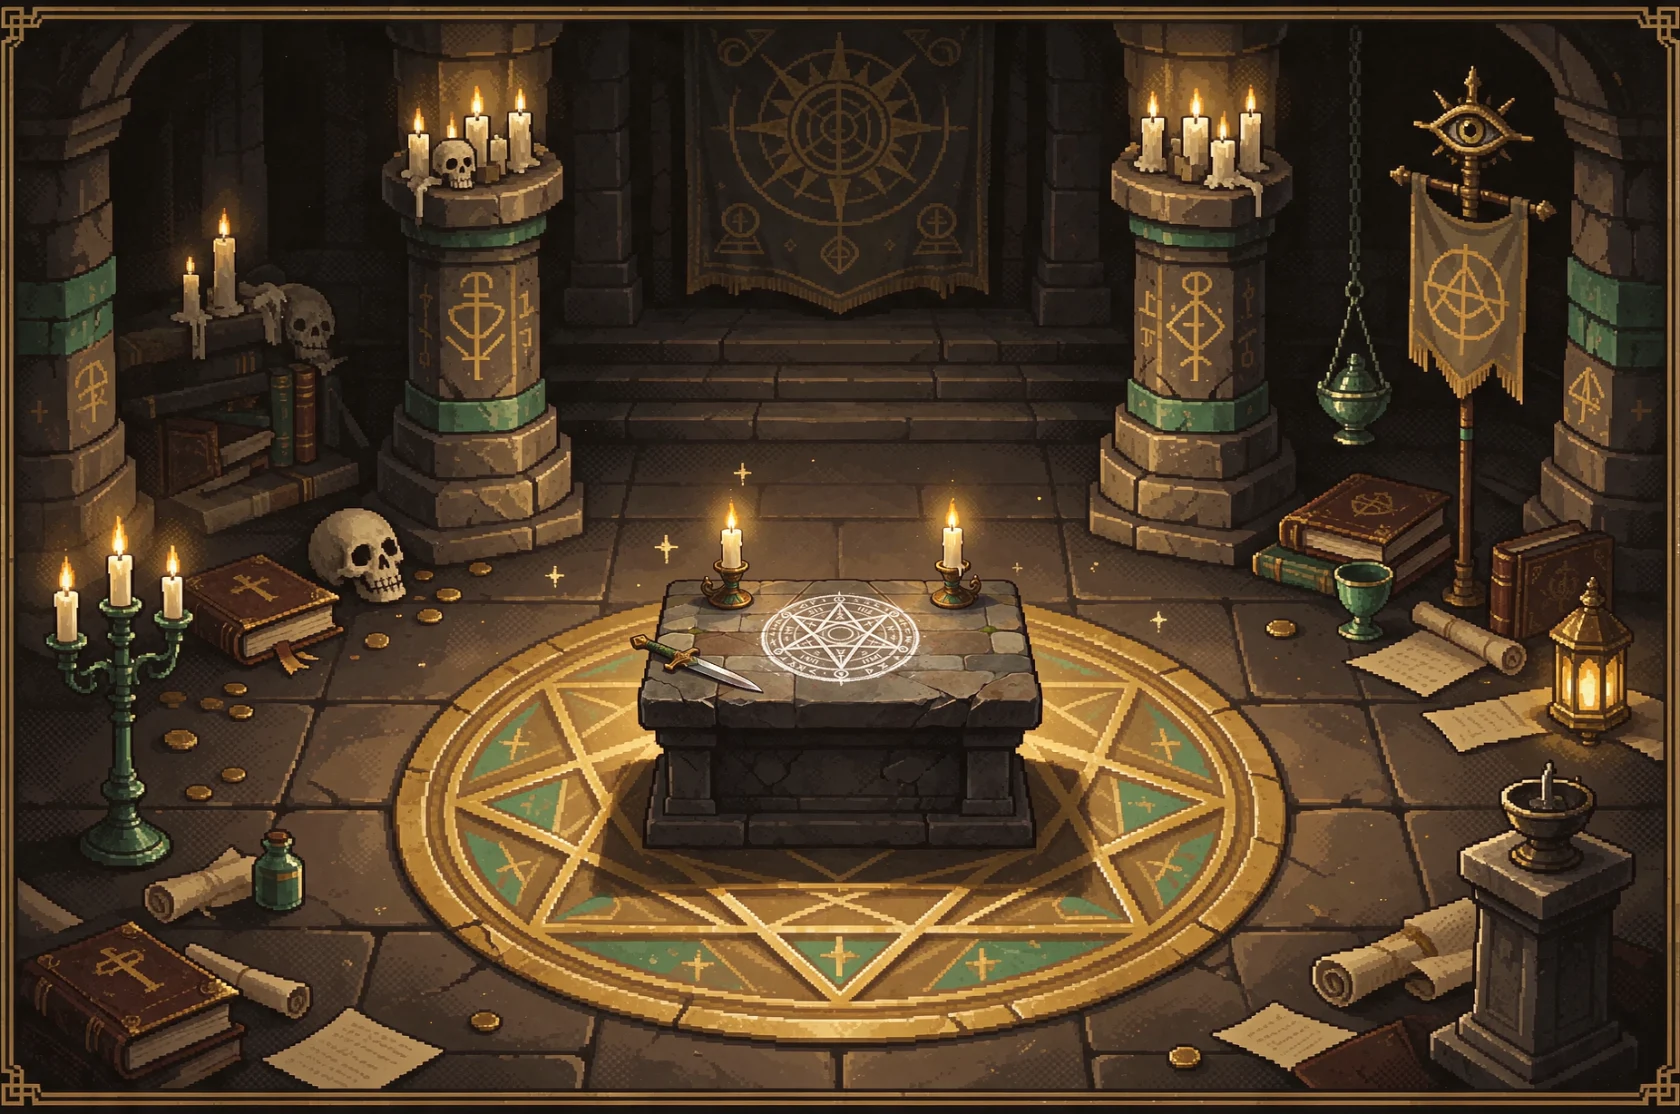
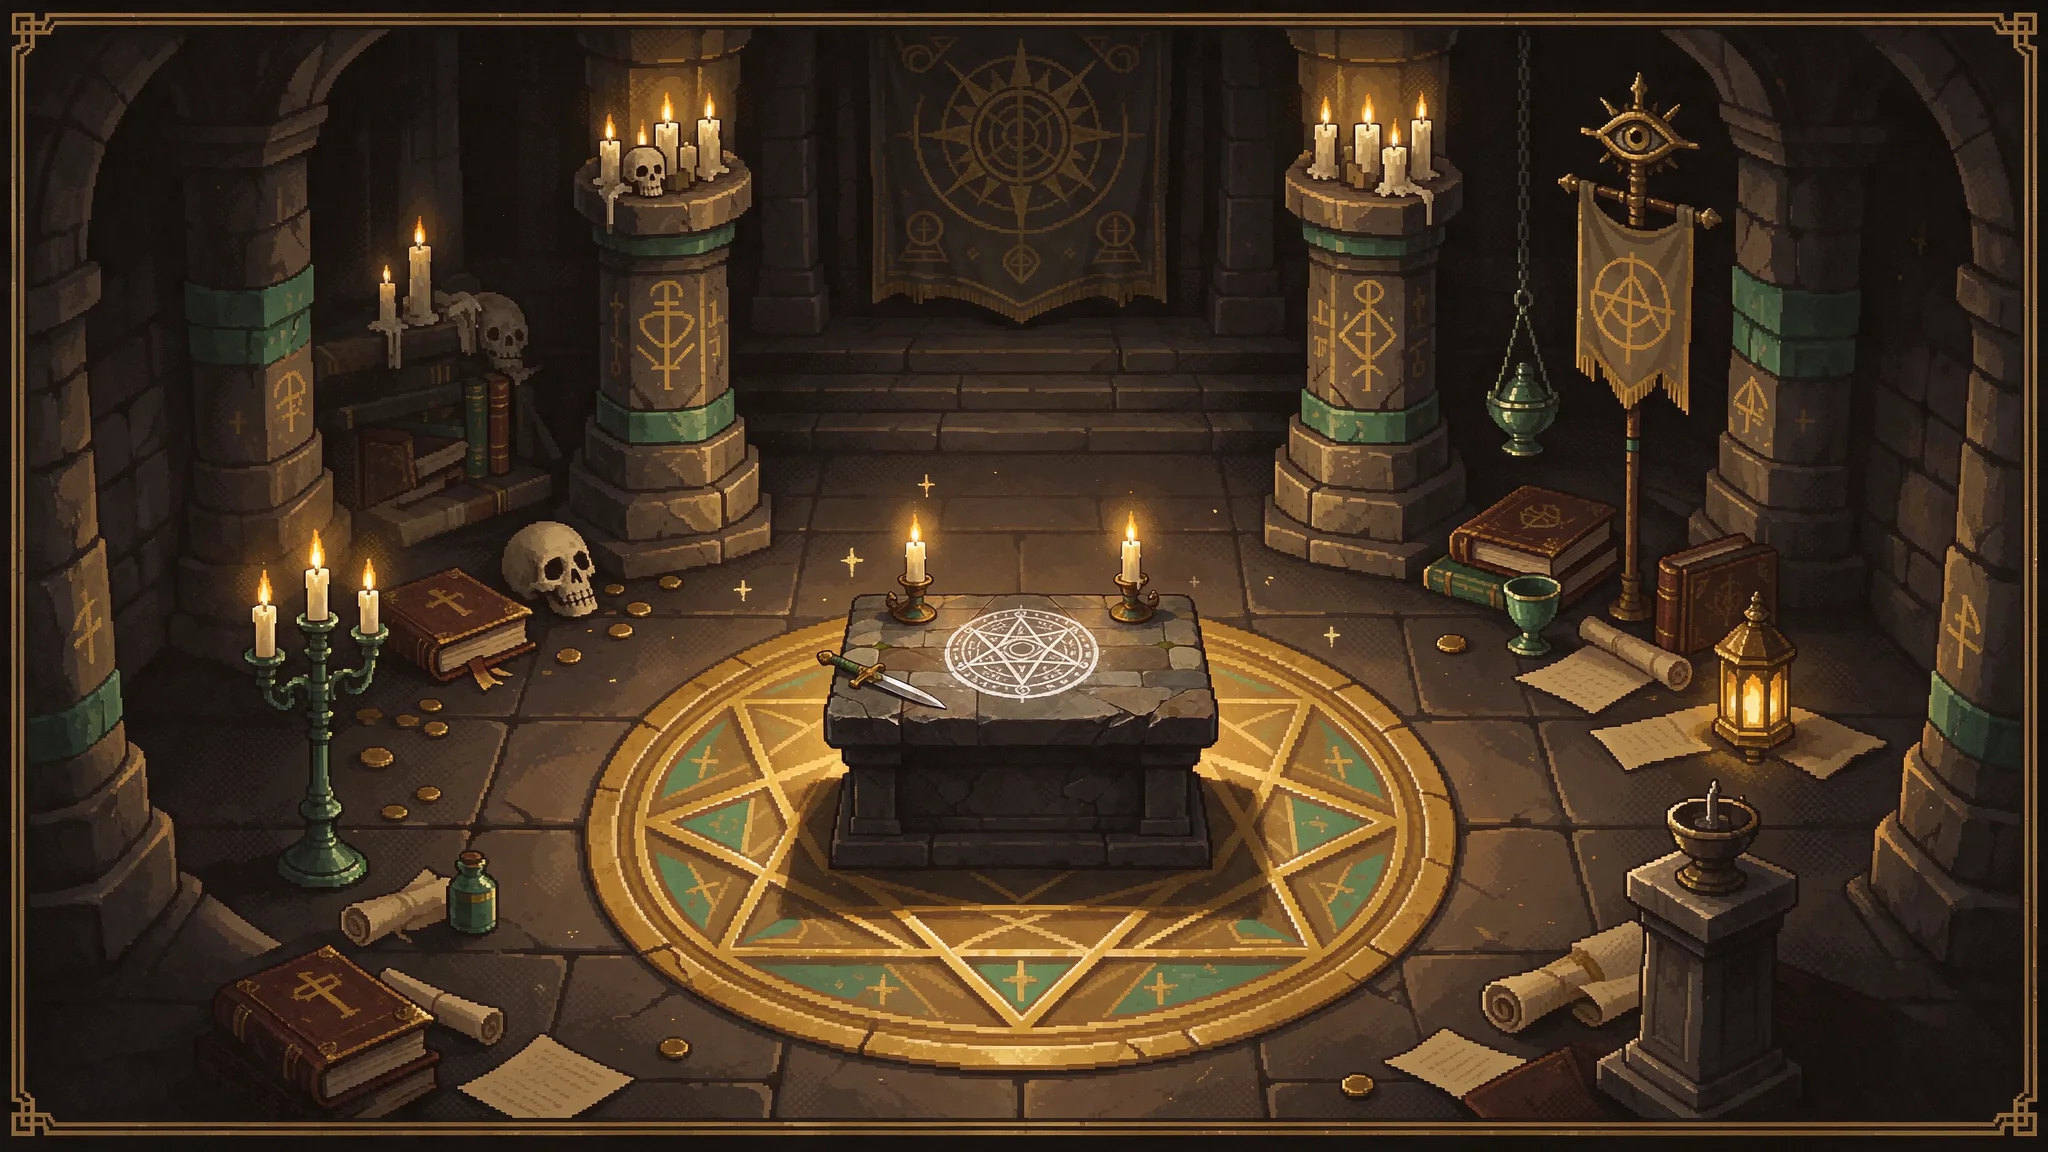
v0.5.0 替换仪式主题的全幅开始屏

diff --git a/src/ritual.css b/src/ritual.css
@@ -11,68 +11,33 @@
 [data-theme="ritual"] [data-art="wave"]   { --art-x: 71.4286%; --art-y: 100%; }
 
 [data-theme="ritual"] .start-screen {
-  --gallery-edge: clamp(22px, 3vw, 62px);
-  --gallery-gap: clamp(16px, 1.55vw, 32px);
-  --menu-rail: clamp(350px, 35vw, 864px);
-  --gallery-left: calc(var(--gallery-edge) + var(--menu-rail) + var(--gallery-gap));
-  grid-template-columns: var(--menu-rail) minmax(0, 1fr);
-  grid-template-rows: minmax(min-content, 1fr);
-  place-items: stretch;
-  gap: var(--gallery-gap);
-  padding: var(--gallery-edge);
+  place-items: center start;
+  padding: clamp(22px, 4.8vh, 55px) clamp(22px, 4.6vw, 102px);
   overflow: auto;
   background:
-    linear-gradient(90deg, transparent 37%, rgba(var(--accent2-rgb), .08)),
-    var(--bg-deep);
+    linear-gradient(90deg, #110e0bd6, #110e0bc9 25%, #110e0bb3 34%, #110e0b38 52%, transparent 68%),
+    linear-gradient(0deg, #110e0ba6, transparent 25%),
+    var(--bg-deep) url('assets/ritual/home.webp') center 58% / cover no-repeat;
   animation: none;
 }
-[data-theme="ritual"] .start-screen::before,
 [data-theme="ritual"] .start-screen::after {
   content: '';
   position: absolute;
-  inset: var(--gallery-edge) var(--gallery-edge) var(--gallery-edge) var(--gallery-left);
+  inset: 0 0 18% 44%;
   pointer-events: none;
-}
-[data-theme="ritual"] .start-screen::before {
   background:
-    linear-gradient(0deg, #120e0a66, transparent 32%),
-    url('assets/ritual/home.webp') center 64% / cover no-repeat;
-  border: 1px solid var(--border-strong);
-  box-shadow: 0 0 0 5px var(--bg-deep), 0 0 0 6px var(--border-soft);
-}
-[data-theme="ritual"] .start-screen::after {
-  background:
-    radial-gradient(ellipse at 17% 21%, #f2be713b, transparent 28%),
-    radial-gradient(ellipse at 80% 22%, #efb66232, transparent 29%);
-  opacity: .55;
+    radial-gradient(ellipse at 40% 17%, #f2be712e, transparent 29%),
+    radial-gradient(ellipse at 73% 73%, #efb66230, transparent 28%);
+  opacity: .5;
 }
 [data-theme="ritual"] :is(.start-atmo, .sigil-shape, .sigil-glyph, .start-rule) { display: none; }
 [data-theme="ritual"] .start-inner {
-  display: grid;
-  grid-template: auto minmax(min-content, 1fr) auto / minmax(0, 1fr);
-  align-items: center;
-  width: 100%;
+  display: flex;
+  align-items: stretch;
+  width: min(100%, clamp(340px, 29.5vw, 640px));
   min-width: 0;
-  padding: clamp(16px, 2.4vw, 54px);
-  gap: clamp(13px, 2.8vh, 36px);
-  border: 1px solid var(--border-strong);
-  box-shadow: inset 0 0 0 4px var(--bg-deep), 0 0 0 5px var(--bg-deep), 0 0 0 6px var(--border-soft);
-  background: linear-gradient(151deg, #261c12, #17130e 54%, #1d1f15);
+  gap: clamp(15px, 2.4vh, 29px);
 }
-[data-theme="ritual"] .start-inner::before {
-  content: '';
-  position: absolute;
-  top: 17%;
-  left: 50%;
-  width: min(89%, 510px);
-  aspect-ratio: 1;
-  translate: -50% 0;
-  clip-path: circle(48%);
-  background: url('assets/ritual/emblem.webp') center / contain no-repeat;
-  opacity: .14;
-  pointer-events: none;
-}
-[data-theme="ritual"] .start-inner > * { position: relative; }
 [data-theme="ritual"] .start-brand {
   display: grid;
   grid-template-columns: auto minmax(0, 1fr);
@@ -321,21 +286,10 @@
 
 @media (max-height: 760px) {
   [data-theme="ritual"] .start-sigil { width: 54px; }
-  [data-theme="ritual"] .start-inner { gap: 12px; padding-block: 17px; }
+  [data-theme="ritual"] .start-inner { gap: 12px; }
 }
 
 @media (max-width: 860px) {
-  [data-theme="ritual"] .start-screen {
-    grid-template-columns: minmax(0, 440px);
-    justify-content: center;
-  }
-  [data-theme="ritual"] .start-screen::before {
-    inset: 0;
-    background-image: linear-gradient(90deg, #110e0bf5, #110e0b60 69%), url('assets/ritual/home.webp');
-    background-position: center, 65% center;
-    border: 0;
-    box-shadow: none;
-  }
-  [data-theme="ritual"] .start-screen::after { display: none; }
+  [data-theme="ritual"] .start-screen { background-position: center, center, 32% 58%; }
   [data-theme="ritual"] .layout { --rail-left: 158px; --rail-right: 170px; padding: 8px; }
 }
